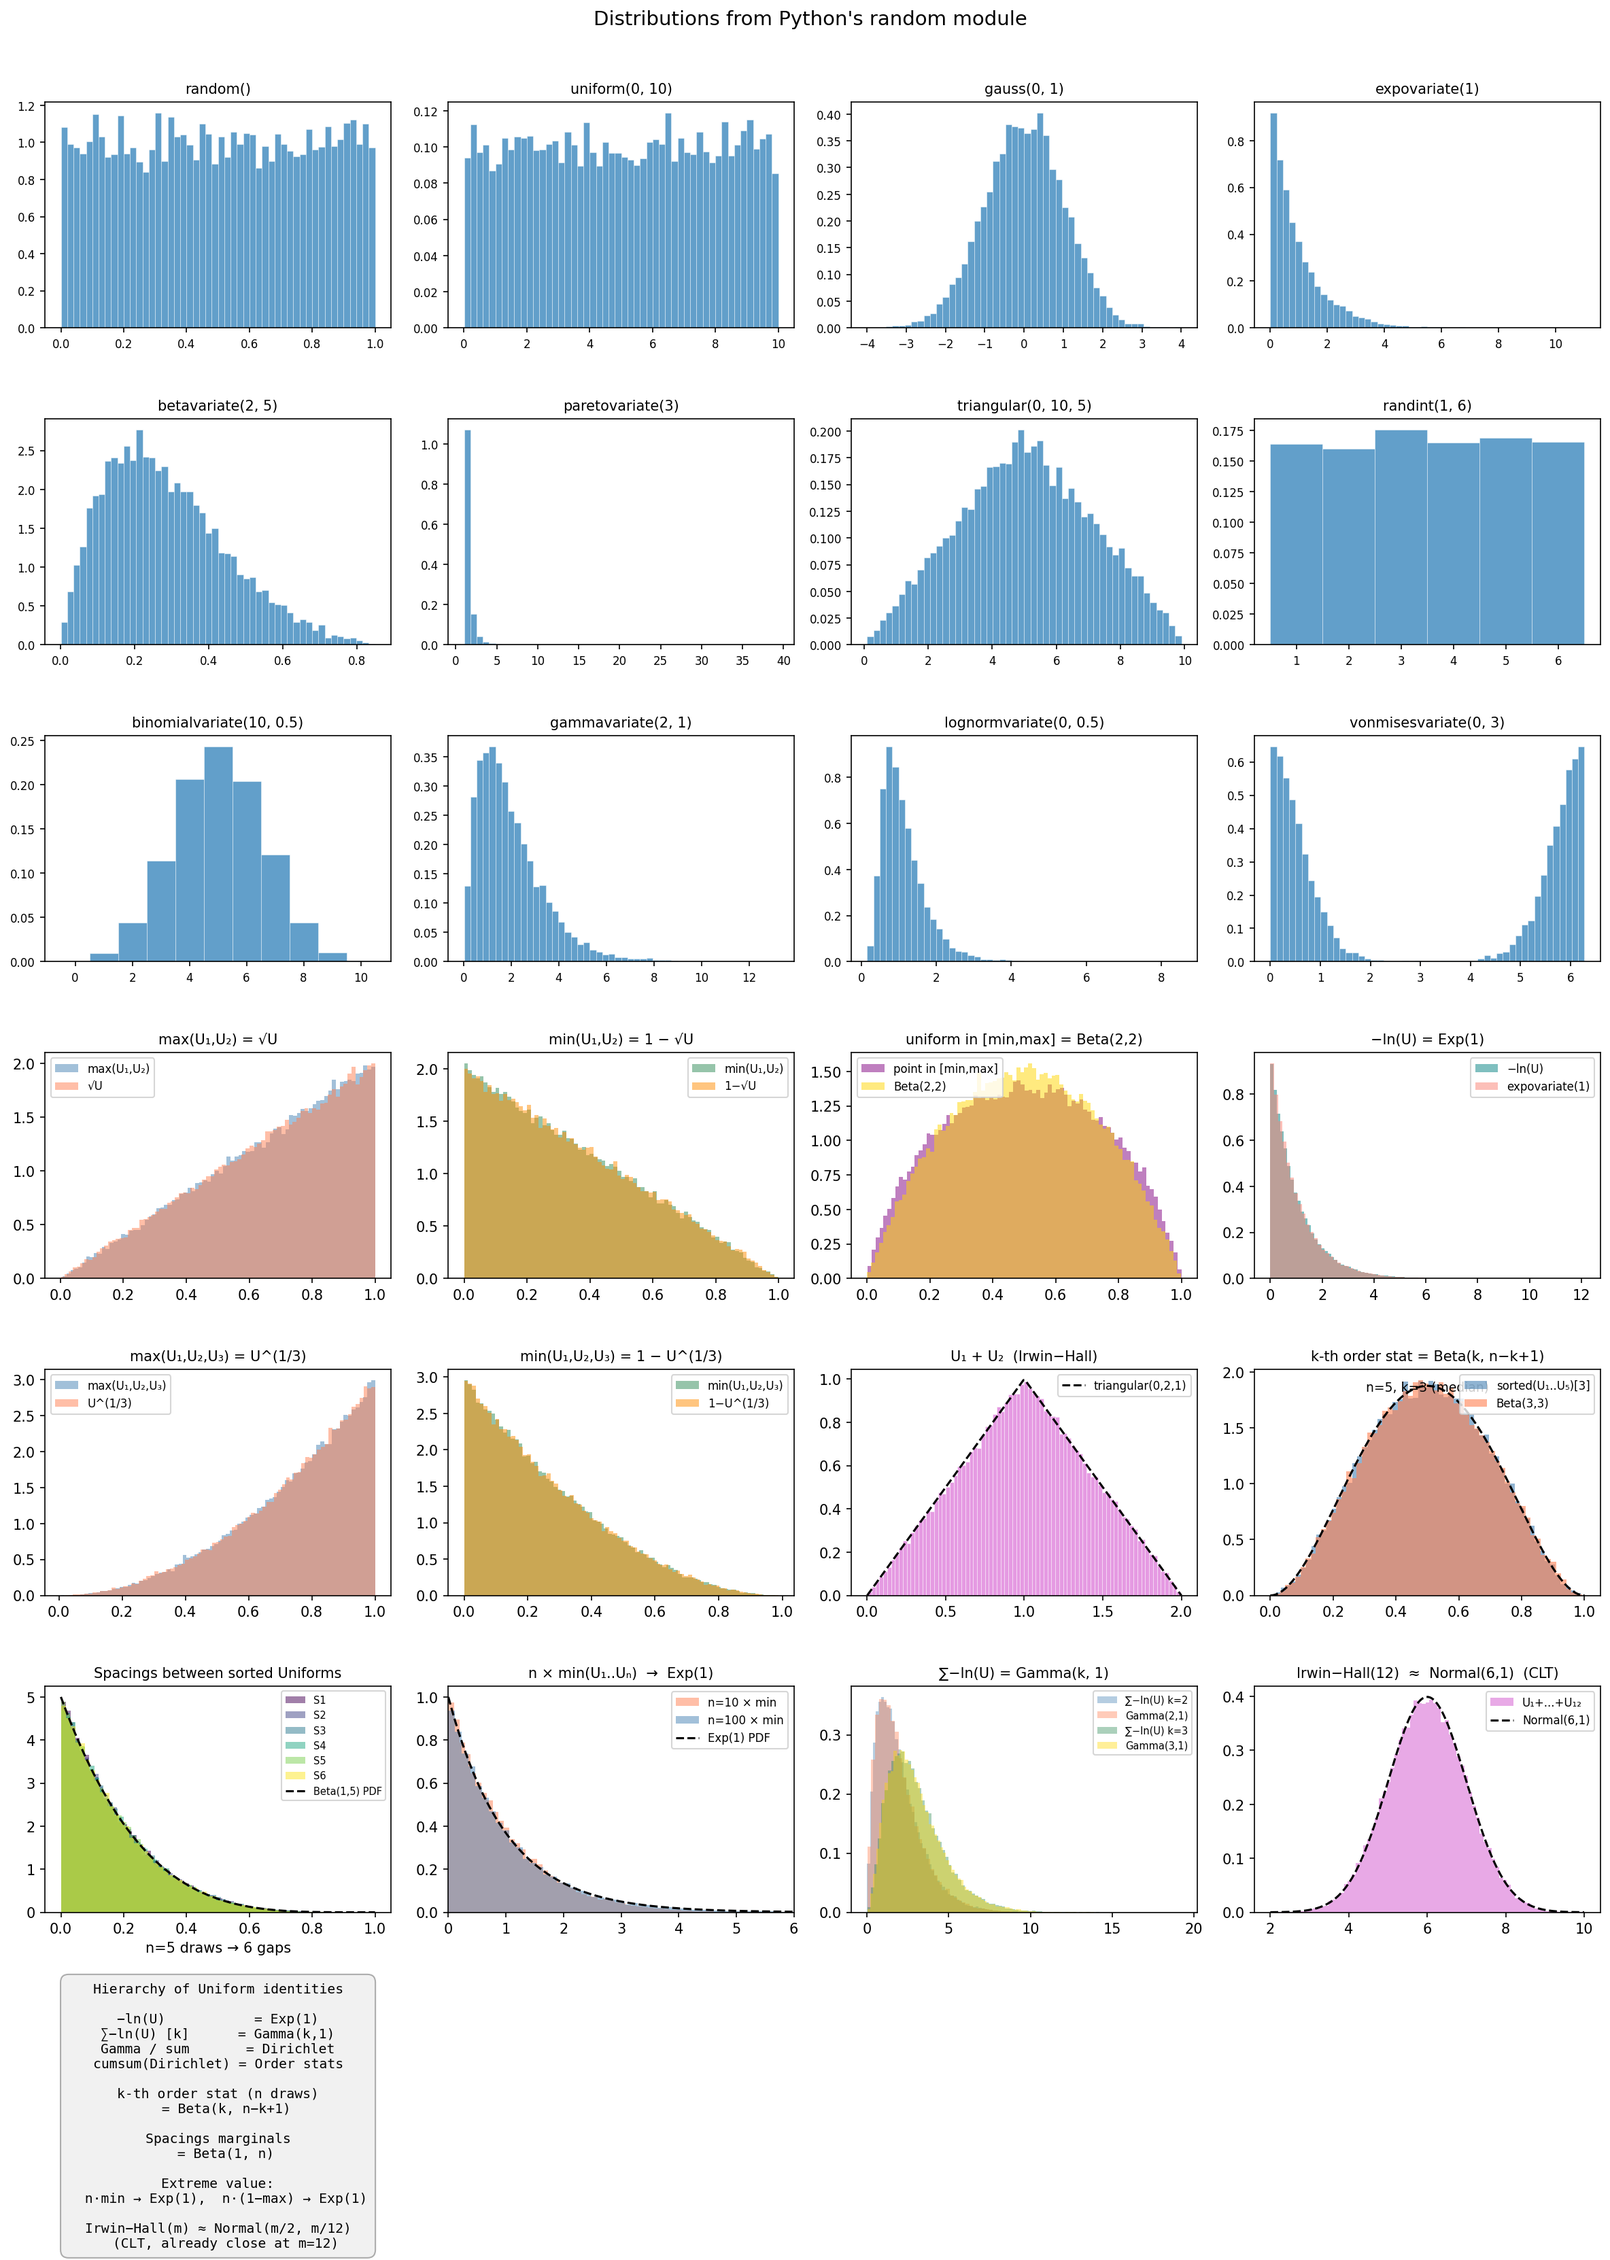
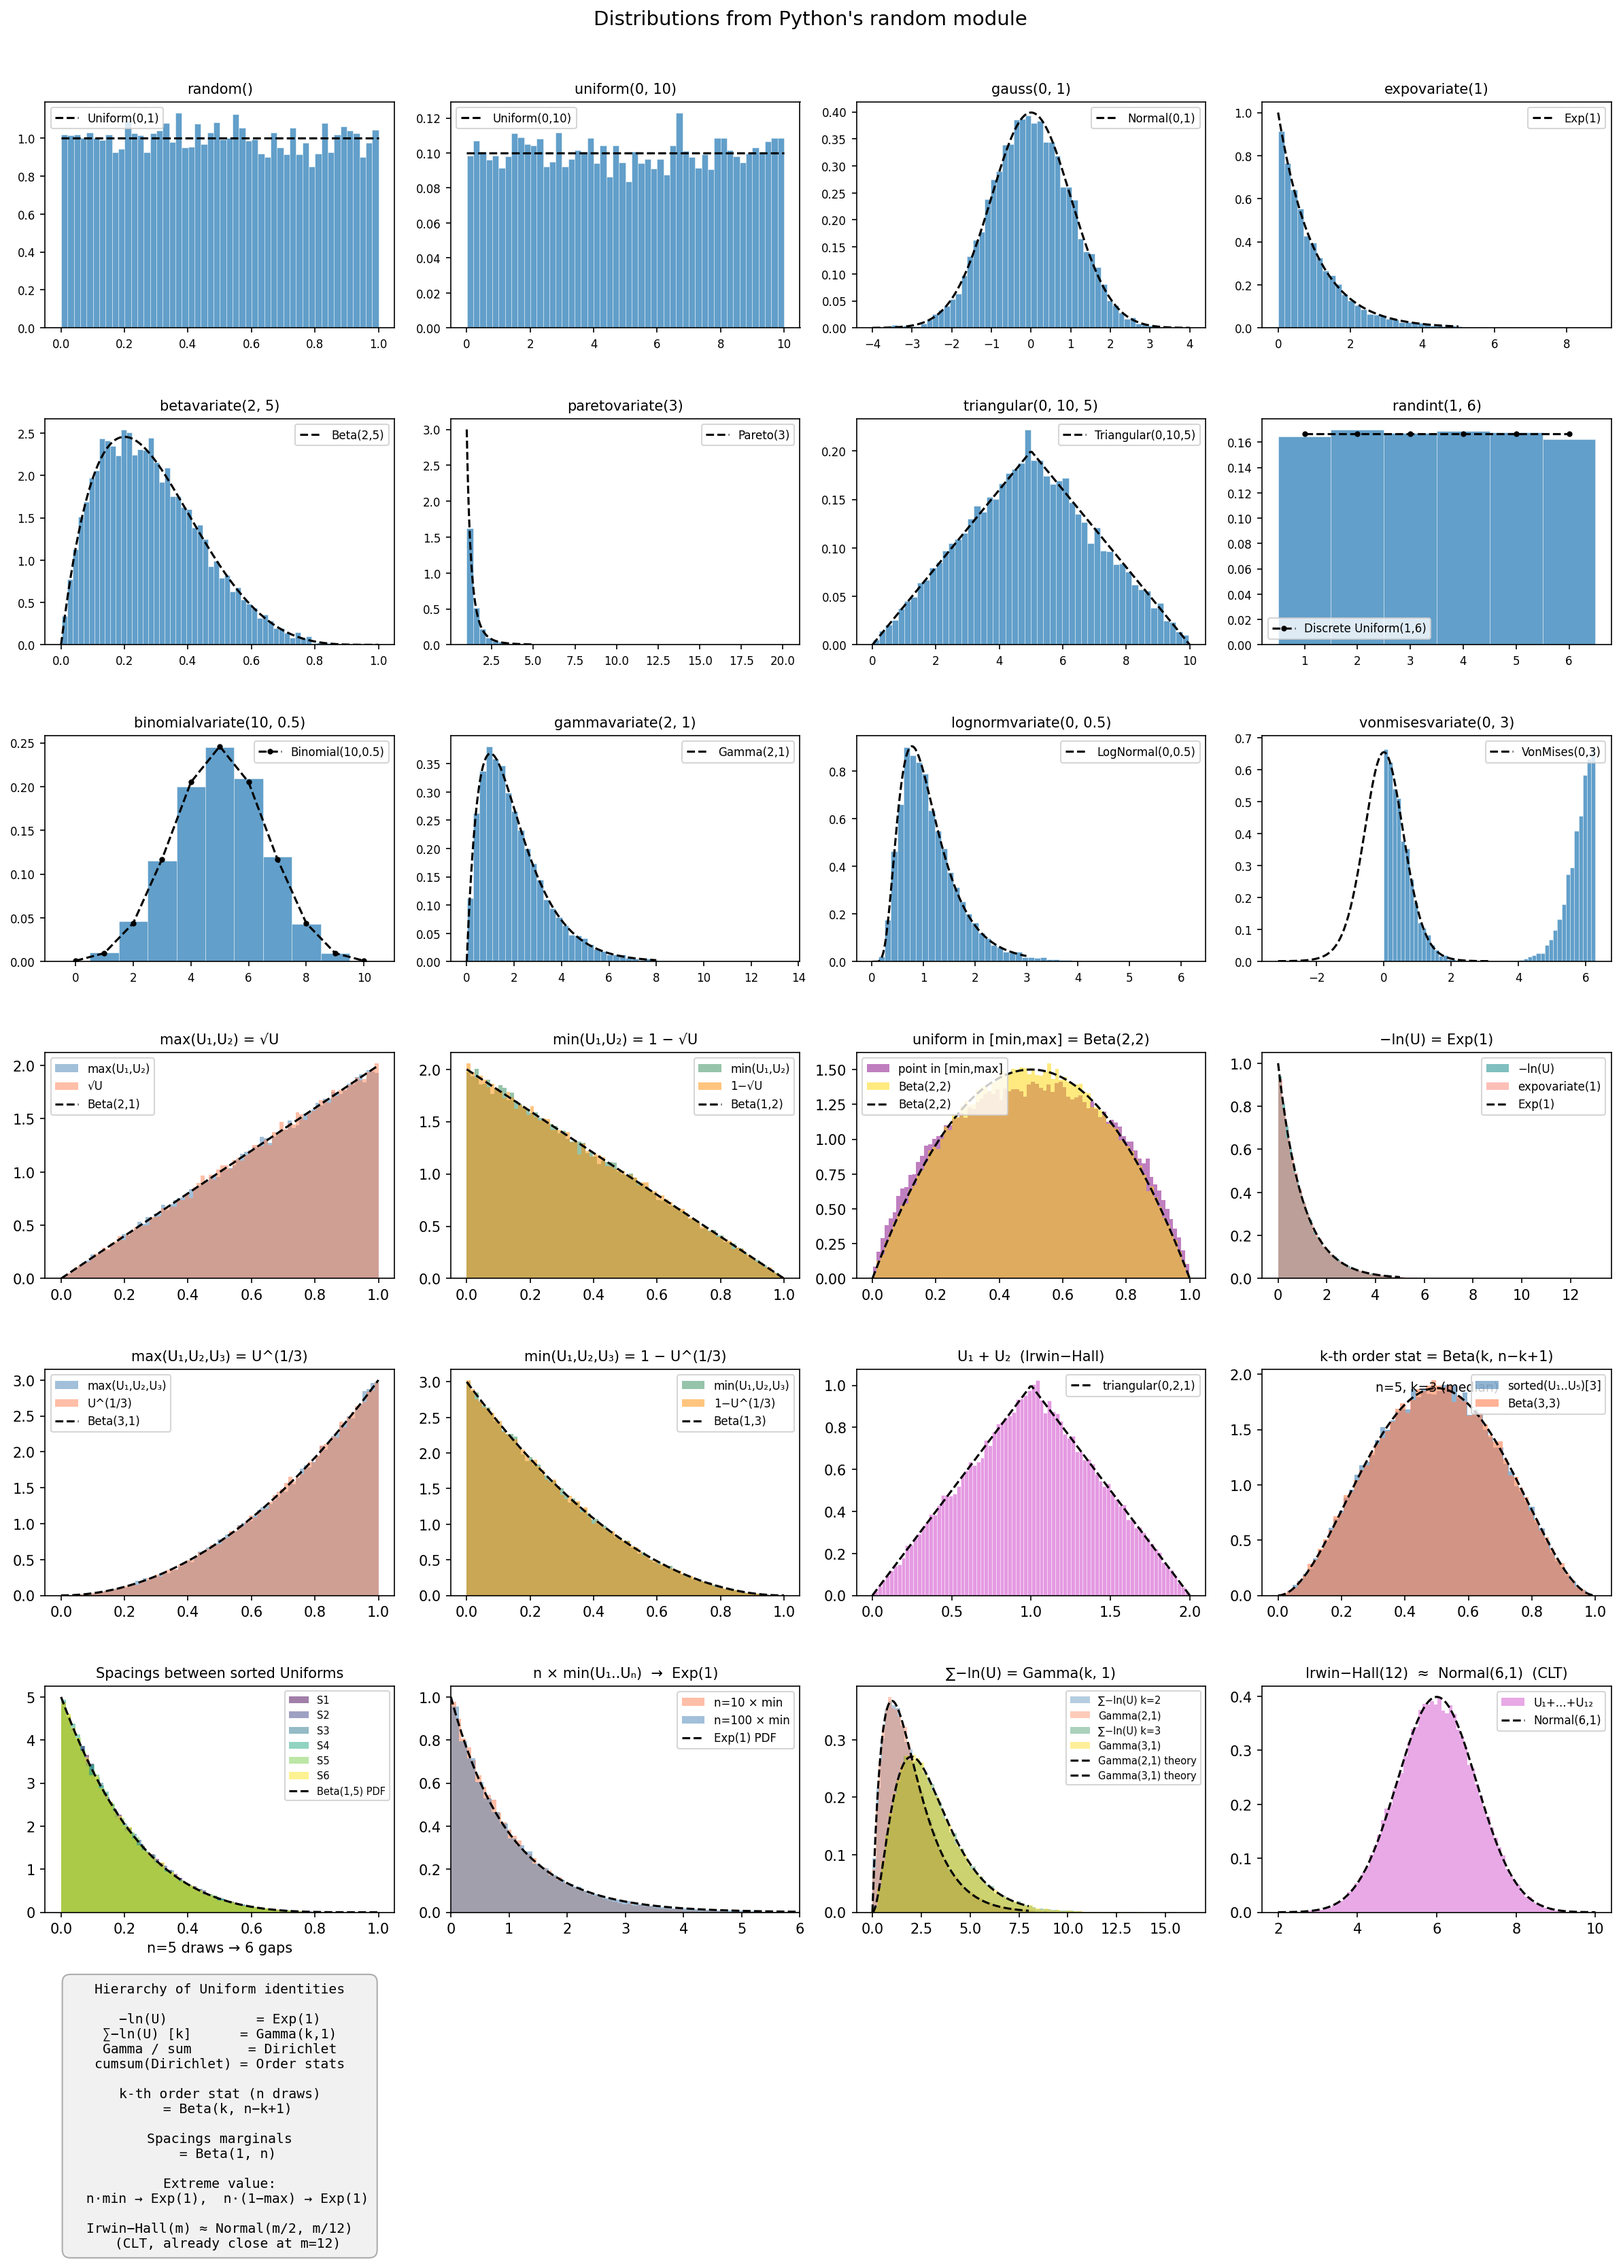
Add theoretical PDF overlay lines to all histogram panels

diff --git a/random_dist.py b/random_dist.py
@@ -1,6 +1,7 @@
 import random
 import matplotlib.pyplot as plt
 import numpy as np
+from scipy import stats
 
 N1 = 10_000
 N2 = 100_000
@@ -98,39 +99,101 @@ for i, (label, data) in enumerate(simple.items()):
     axs[i].set_title(label, fontsize=10)
     axs[i].tick_params(labelsize=8)
 
-# row 3 col 0: max of 2 vs sqrt
+# theoretical PDF lines for simple distributions
+# panel 0: Uniform(0,1)
+x = np.linspace(0, 1, 200)
+axs[0].plot(x, np.ones_like(x), "k--", lw=1.5, label="Uniform(0,1)")
+axs[0].legend(fontsize=8)
+# panel 1: Uniform(0,10)
+x = np.linspace(0, 10, 200)
+axs[1].plot(x, np.full_like(x, 0.1), "k--", lw=1.5, label="Uniform(0,10)")
+axs[1].legend(fontsize=8)
+# panel 2: Normal(0,1)
+x = np.linspace(-4, 4, 200)
+axs[2].plot(x, stats.norm.pdf(x), "k--", lw=1.5, label="Normal(0,1)")
+axs[2].legend(fontsize=8)
+# panel 3: Exp(1)
+x = np.linspace(0, 5, 200)
+axs[3].plot(x, stats.expon.pdf(x, scale=1), "k--", lw=1.5, label="Exp(1)")
+axs[3].legend(fontsize=8)
+# panel 4: Beta(2,5)
+x = np.linspace(0, 1, 200)
+axs[4].plot(x, stats.beta.pdf(x, 2, 5), "k--", lw=1.5, label="Beta(2,5)")
+axs[4].legend(fontsize=8)
+# panel 5: Pareto(3)
+x = np.linspace(1, 5, 200)
+axs[5].plot(x, stats.pareto.pdf(x, 3, scale=1), "k--", lw=1.5, label="Pareto(3)")
+axs[5].legend(fontsize=8)
+# panel 6: Triangular(0,10,5)
+x = np.linspace(0, 10, 200)
+axs[6].plot(x, stats.triang.pdf(x, 0.5, loc=0, scale=10), "k--", lw=1.5, label="Triangular(0,10,5)")
+axs[6].legend(fontsize=8)
+# panel 7: Discrete Uniform(1,6)
+x = np.arange(1, 7)
+axs[7].plot(x, np.full(6, 1/6), "k--", lw=1.5, marker="o", markersize=3, label="Discrete Uniform(1,6)")
+axs[7].legend(fontsize=8)
+# panel 8: Binomial(10,0.5)
+x = np.arange(0, 11)
+axs[8].plot(x, stats.binom.pmf(x, 10, 0.5), "k--", lw=1.5, marker="o", markersize=3, label="Binomial(10,0.5)")
+axs[8].legend(fontsize=8)
+# panel 9: Gamma(2,1)
+x = np.linspace(0, 8, 200)
+axs[9].plot(x, stats.gamma.pdf(x, 2, scale=1), "k--", lw=1.5, label="Gamma(2,1)")
+axs[9].legend(fontsize=8)
+# panel 10: LogNormal(0,0.5)
+x = np.linspace(0.01, 3, 200)
+axs[10].plot(x, stats.lognorm.pdf(x, 0.5, scale=1), "k--", lw=1.5, label="LogNormal(0,0.5)")
+axs[10].legend(fontsize=8)
+# panel 11: VonMises(0,3)
+x = np.linspace(-np.pi, np.pi, 200)
+axs[11].plot(x, stats.vonmises.pdf(x, 3, loc=0), "k--", lw=1.5, label="VonMises(0,3)")
+axs[11].legend(fontsize=8)
+
+# row 3 col 0: max of 2 vs sqrt — both ~ Beta(2,1)
 axs[12].hist(max_of_two, bins=80, density=True, alpha=0.5, label="max(U₁,U₂)", color="steelblue")
 axs[12].hist(sqrt_rand,  bins=80, density=True, alpha=0.5, label="√U",         color="coral")
+x = np.linspace(0, 1, 200)
+axs[12].plot(x, stats.beta.pdf(x, 2, 1), "k--", lw=1.5, label="Beta(2,1)")
 axs[12].set_title("max(U₁,U₂) = √U", fontsize=10)
 axs[12].legend(fontsize=8)
 
-# row 3 col 1: min of 2 vs 1 - sqrt
+# row 3 col 1: min of 2 vs 1 - sqrt — both ~ Beta(1,2)
 axs[13].hist(min_of_two, bins=80, density=True, alpha=0.5, label="min(U₁,U₂)", color="seagreen")
 axs[13].hist(one_minus_sqrt, bins=80, density=True, alpha=0.5, label="1−√U",   color="darkorange")
+x = np.linspace(0, 1, 200)
+axs[13].plot(x, stats.beta.pdf(x, 1, 2), "k--", lw=1.5, label="Beta(1,2)")
 axs[13].set_title("min(U₁,U₂) = 1 − √U", fontsize=10)
 axs[13].legend(fontsize=8)
 
-# row 3 col 2: midpoint vs Beta(2,2)
+# row 3 col 2: midpoint vs Beta(2,2) — both ~ Beta(2,2)
 axs[14].hist(inner_point, bins=80, density=True, alpha=0.5, label="point in [min,max]", color="purple")
 axs[14].hist(beta22,      bins=80, density=True, alpha=0.5, label="Beta(2,2)",           color="gold")
+x = np.linspace(0, 1, 200)
+axs[14].plot(x, stats.beta.pdf(x, 2, 2), "k--", lw=1.5, label="Beta(2,2)")
 axs[14].set_title("uniform in [min,max] = Beta(2,2)", fontsize=10)
 axs[14].legend(fontsize=8)
 
-# row 3 col 3: -ln(U) vs expovariate(1)
+# row 3 col 3: -ln(U) vs expovariate(1) — both ~ Exp(1)
 axs[15].hist(minus_log_u, bins=80, density=True, alpha=0.5, label="−ln(U)",          color="teal")
 axs[15].hist(expo,        bins=80, density=True, alpha=0.5, label="expovariate(1)",   color="salmon")
+x = np.linspace(0, 5, 200)
+axs[15].plot(x, stats.expon.pdf(x, scale=1), "k--", lw=1.5, label="Exp(1)")
 axs[15].set_title("−ln(U) = Exp(1)", fontsize=10)
 axs[15].legend(fontsize=8)
 
-# row 4 col 0: max of 3 vs cube root
+# row 4 col 0: max of 3 vs cube root — both ~ Beta(3,1)
 axs[16].hist(max_of_three, bins=80, density=True, alpha=0.5, label="max(U₁,U₂,U₃)", color="steelblue")
 axs[16].hist(cube_root,    bins=80, density=True, alpha=0.5, label="U^(1/3)",        color="coral")
+x = np.linspace(0, 1, 200)
+axs[16].plot(x, stats.beta.pdf(x, 3, 1), "k--", lw=1.5, label="Beta(3,1)")
 axs[16].set_title("max(U₁,U₂,U₃) = U^(1/3)", fontsize=10)
 axs[16].legend(fontsize=8)
 
-# row 4 col 1: min of 3 vs 1 - cube root
+# row 4 col 1: min of 3 vs 1 - cube root — both ~ Beta(1,3)
 axs[17].hist(min_of_three,   bins=80, density=True, alpha=0.5, label="min(U₁,U₂,U₃)", color="seagreen")
 axs[17].hist(one_minus_cube, bins=80, density=True, alpha=0.5, label="1−U^(1/3)",     color="darkorange")
+x = np.linspace(0, 1, 200)
+axs[17].plot(x, stats.beta.pdf(x, 1, 3), "k--", lw=1.5, label="Beta(1,3)")
 axs[17].set_title("min(U₁,U₂,U₃) = 1 − U^(1/3)", fontsize=10)
 axs[17].legend(fontsize=8)
 
@@ -178,6 +241,9 @@ axs[22].hist(gamma_sum[2],    bins=80, density=True, alpha=0.4, label="∑−ln(
 axs[22].hist(gamma_direct[2], bins=80, density=True, alpha=0.4, label="Gamma(2,1)",   color="coral")
 axs[22].hist(gamma_sum[3],    bins=80, density=True, alpha=0.4, label="∑−ln(U) k=3", color="seagreen")
 axs[22].hist(gamma_direct[3], bins=80, density=True, alpha=0.4, label="Gamma(3,1)",   color="gold")
+x = np.linspace(0, 8, 200)
+axs[22].plot(x, stats.gamma.pdf(x, 2, scale=1), "k--", lw=1.5, label="Gamma(2,1) theory")
+axs[22].plot(x, stats.gamma.pdf(x, 3, scale=1), "k--", lw=1.5, label="Gamma(3,1) theory")
 axs[22].set_title("∑−ln(U) = Gamma(k, 1)", fontsize=10)
 axs[22].legend(fontsize=7)
 

diff --git a/LEARNINGS.md b/LEARNINGS.md
@@ -1,0 +1,23 @@
+# theoretical-pdf-overlay: Add theoretical PDF curves to all histogram panels
+
+**Date:** 2026-08-03
+**Context:** random_dist.py — 7×4 grid of distribution histograms
+
+## Problem
+The user asked to "add the softmax line to every graph." After clarifying, they meant overlaying the theoretical probability density function (PDF) curve on every histogram panel. The script already had theoretical PDF lines on 5 panels (U1+U2 triangular, order-stat Beta, spacings Beta, extreme-value Exp, CLT Normal) but was missing them on the remaining 19 panels.
+
+## Rejected
+- **KDE (kernel density estimate) line** — plausible as a "smooth line" over histograms, but user confirmed they want the theoretical parametric PDF, not a data-driven estimate.
+- **Actual softmax function** — the term "softmax" was initially ambiguous; the user confirmed they want the theoretical distribution PDF, not the softmax activation function.
+
+## Approach
+Added `from scipy import stats` import, then added theoretical PDF/PMF lines using `scipy.stats` distribution functions to each of the 19 histogram panels that lacked them. For continuous distributions, used `axs[i].plot(x, stats.<dist>.pdf(x, ...), "k--", lw=1.5)`. For discrete distributions (panels 7 and 8), used `axs[i].plot(x, stats.<dist>.pmf(x, ...), "k--", lw=1.5, marker="o")`. Each line includes a legend label and a corresponding `axs[i].legend(fontsize=8)` call (or updates the existing legend).
+
+## Key insight
+The existing code already had theoretical PDF lines on panels 18–21 and 23. The pattern is consistent: compute x values spanning the distribution's support, evaluate the theoretical PDF using scipy.stats, and overlay with a black dashed line. This pattern generalizes to any distribution that scipy.stats supports.
+
+## Verification
+Ran `python3 random_dist.py` — executed without errors, saved `random_all.png` (631K). All 28 panels render correctly with theoretical curves overlaid.
+
+## Generalizes to
+The scipy.stats overlay pattern works for any distribution: compute x-range, evaluate PDF/PMF, plot with `ax.plot(x, pdf, "k--")`. This can be applied to any histogram-based distribution visualization project.
